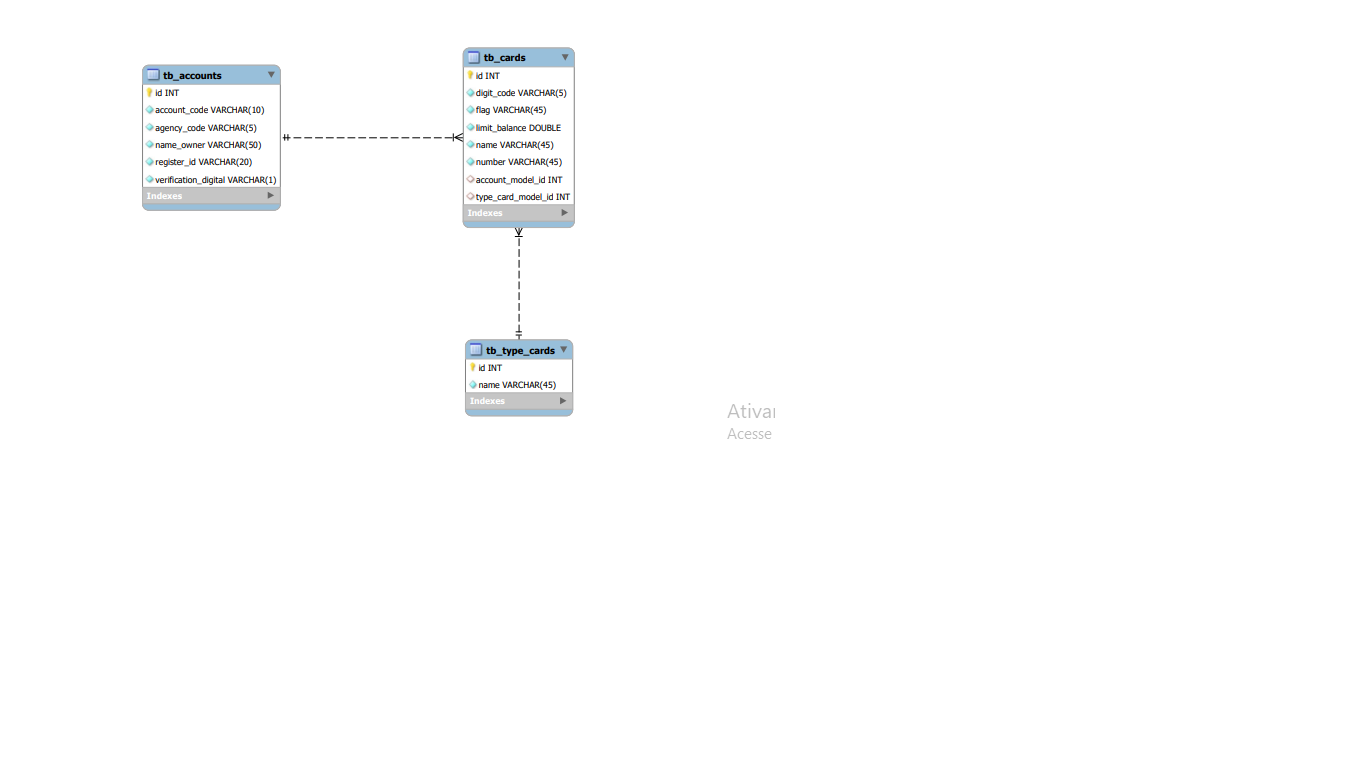
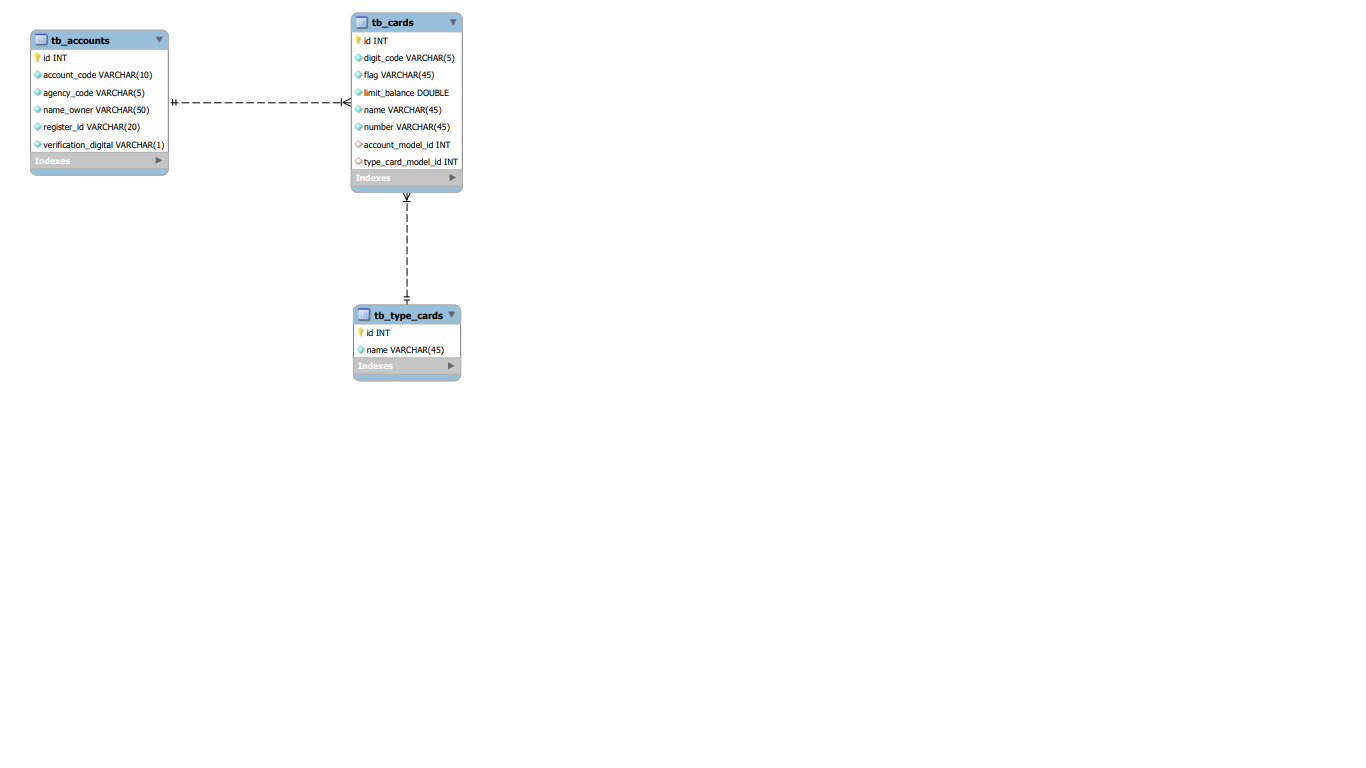
update README.md

diff --git a/README.md b/README.md
@@ -1,5 +1,107 @@
 # Projeto Final Bootcamp It Experts
 
+
+
+
+
+# Project:
+
+You must implement a simple bank account web API. Account have (Id, agency, bankAccount, verificationDigital, Cards). The Cards must also be managed by Bank Account. have (id, name, typeOfCard, flag, number, code, limitBalance, nameOwner).
+
+\- *You must implement Create, Read and Delete. (Update is not necessary due to time constraints for this implementation)*
+
+\- *Account:*
+
+\- *id: (generated automatically. Integer and incremental)*
+
+\- *nameOwner: chars field max size 50*
+
+\- *agencyCode: chars field max size 4*
+
+\- *accountCode: chars field max size 8*
+
+\- *verificationDigital: chars field max size 1*
+
+\- *Cards: from all Cards available in currency bank account.*
+
+\- *Cards:*
+
+\- *Id: (generated automatically, integer and incremental)*
+
+\- *name: Must not be empty. All cards must have a name of Card. Max size 128 chars.*
+
+\- *flag: (Mastercard, Visa, Elo) – you can create a Enum if you prefer.*
+
+\- *typeCard: from Type entity available.*
+
+\- *number: chars minimun size and max size 20 chars (9999.9999. 9999.9999)*
+
+\- *digitCode: chars field max size 5*
+
+\- *limitBalance: double value max size 20*
+
+\- *Type:*
+
+\- *Id: (generated automatically, integer and incremental)*
+
+\- *name: kind of cards: (DEBIT_CARD, CREDIT_CARD, MEAL_CARD, GIFT_CARD ...)*
+
+ 
+
+***- All fields are mandatory\*** *(You need validate them,*
+
+Example: if data Account not send nameOwner in create Account, you need to return that
+
+“nameOwner is mandatory” is the same for the others fields).
+
+\- *The APP must list all Account and Cards related, we need to create new Bank Account together with Card, and delete Cards, not is possible delete Bank Account if have some Card associated with Bank Account.*
+
+·        *Backend must be implemented in Java (version 11 or above).*
+
+·        *Application must be built using Spring Boot*
+
+·        *It is necessary to use Swagger API Documentation*
+
+·        *Account and Card MUST be persisted on a MySQL database.*
+
+·        *You must provide the script (SQL or any database versioning/migration script) that can create the database from scratch.*
+
+.    You need to use Maven or Gradle to management dependencies in the project.
+
+·        *Use GIT, commit every progress you made, and share your cond on a github public repository.*
+
+
+
+# Super challenge:
+
+\- Swagger Api Doc (Account, Card,Type),
+
+\- Create Updates (Cards change into Account, Type into Card, just Type),
+
+\- Exceptions Errors if you try to delete Type if have some Cards associated.
+
+\- *Deploy your project on a cloud provider (AWS), use the service **AWS Code Pipeline** (CI/CD), and*
+
+***send the URL of your web application, and the URL of your GIT repo.\***
+
+\- *Our recommendation is to sign up on AWS for a free account and use:*
+
+\- *One T2 micro EC2 instance (for backend) – FREE TIER*
+
+\- *One RDS T2 micro instance (for database) – FREE TIER*
+
+\- *In case the project could not be deployed, it must be ready to run and install on a Ubuntu 18 linux machine. The evaluation process would be:*
+
+\- *Clone the repo. (create the local database based on the script given). Run back end locally.*
+
+ 
+
+ 
+
+API Database Model:
+
+<img src="Diagrama MySQL.png">
+
 <h3>Tecnologias utilizadas:</h3>
 
 - Java 11
@@ -27,7 +129,7 @@
 
 
 
-<img src="C:\Users\user\Documents\workspace-spring-tool-suite-4-4.13.0.RELEASE\bootcamp-it-experts\Diagrama MySQL.png">
+
 
 Link para aplicação na AWS
 
